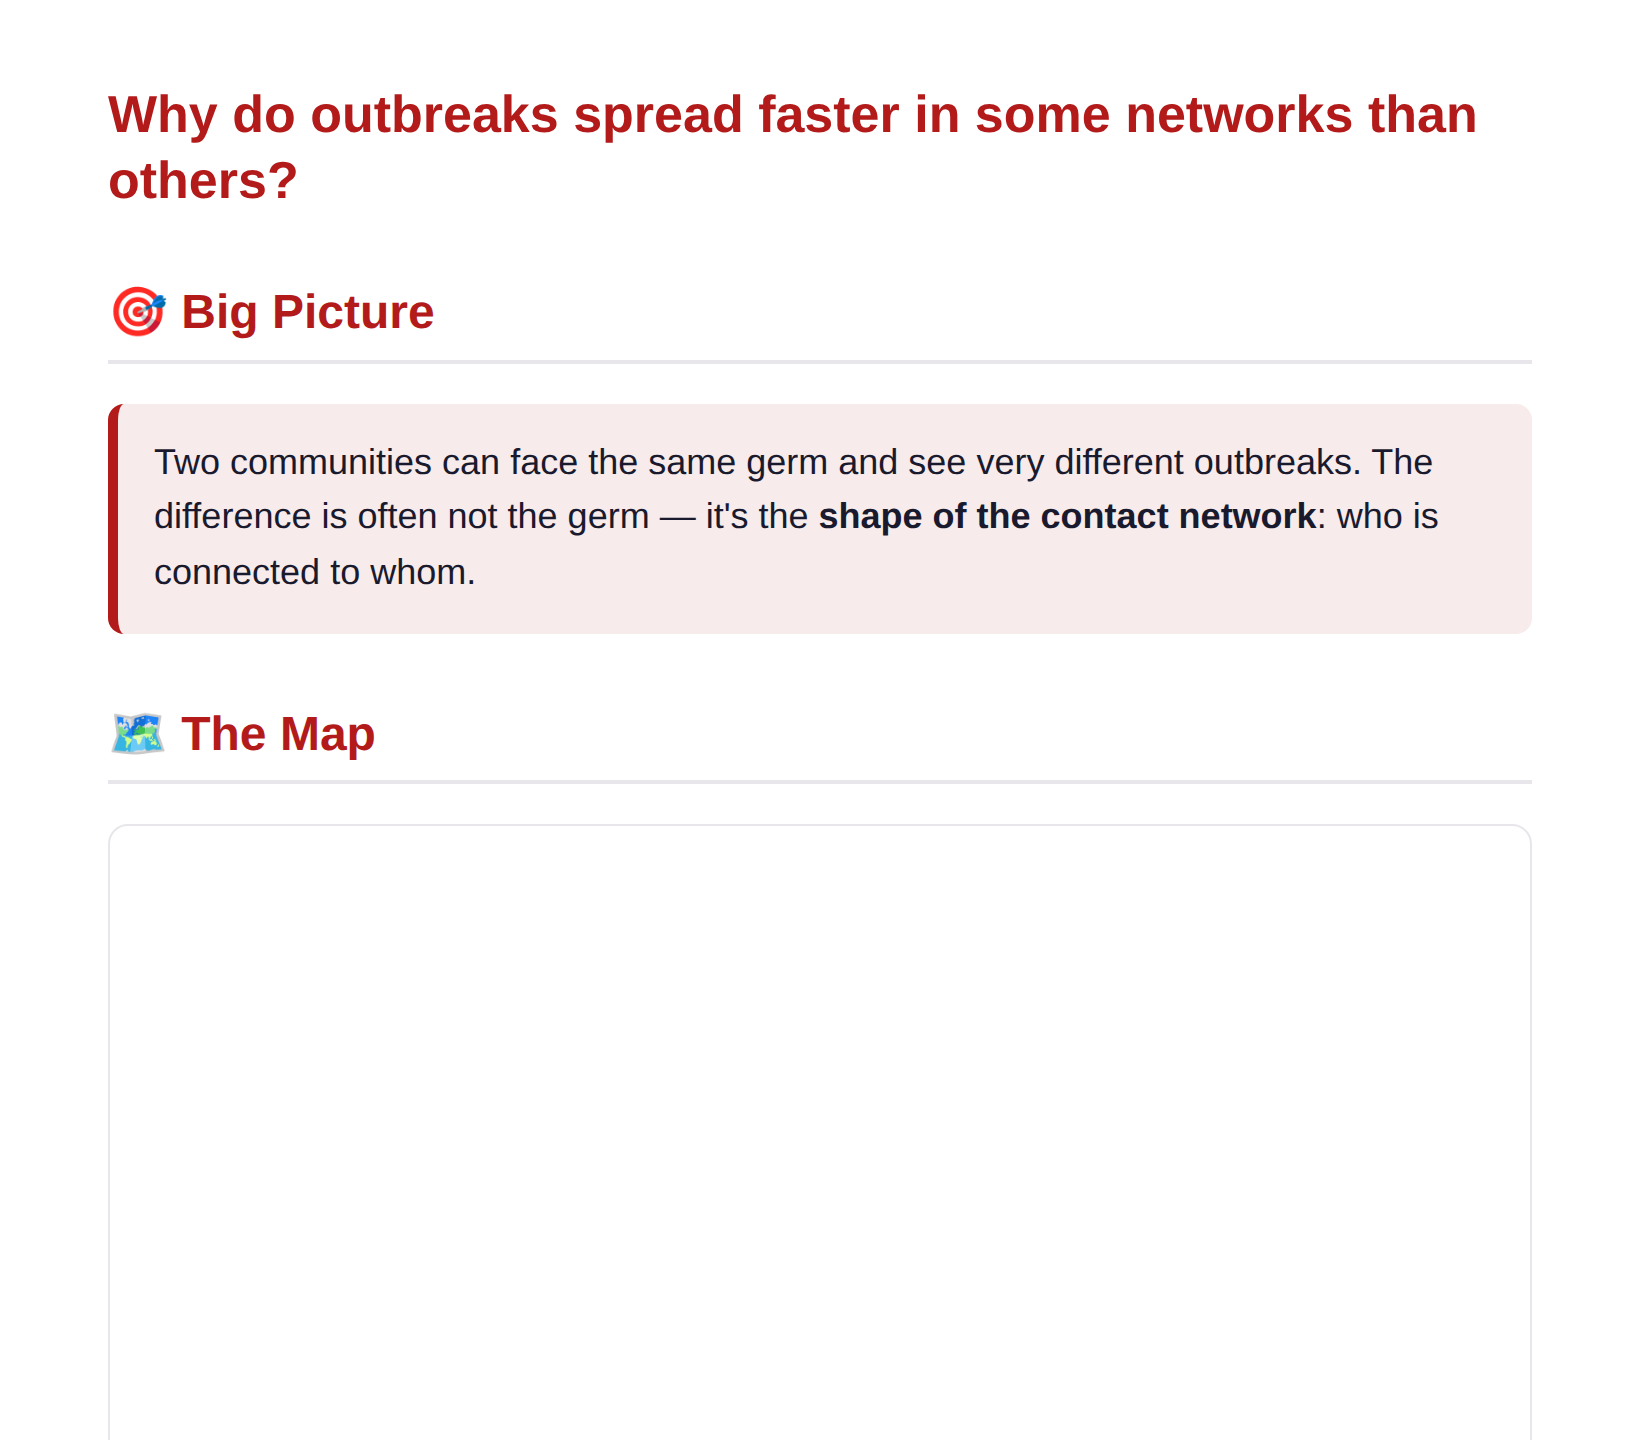
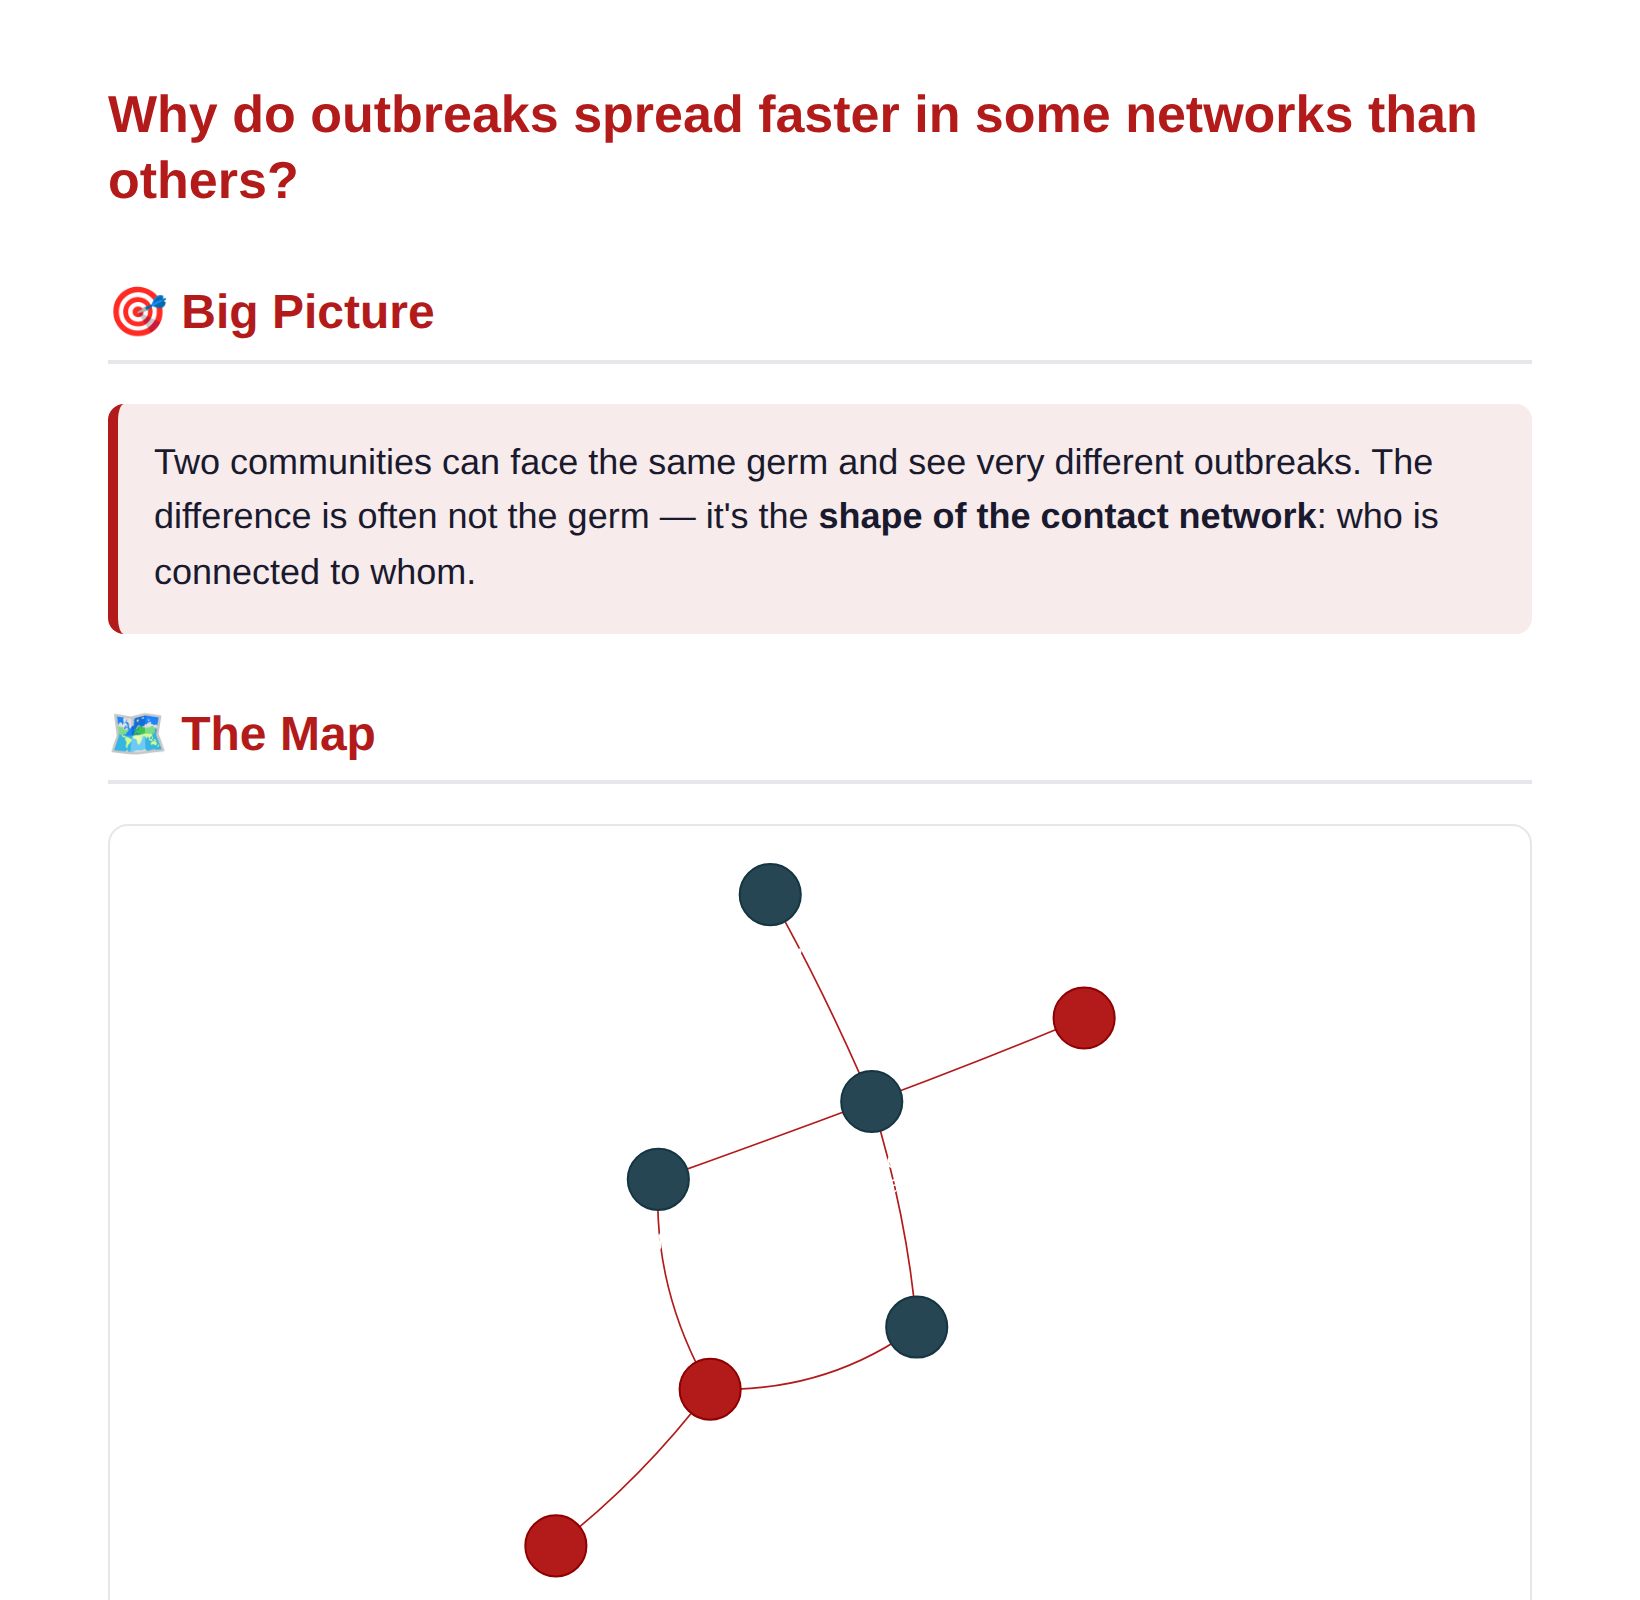
Fix "The Map" not rendering: vendor vis-network locally (#14)
The interactive-tutorial screenshot showed an empty graph because the
vis-network CDN (unpkg) is blocked by the egress policy, so the library
never loaded in headless chromium.

- Vendor vis-network.min.js into 01_claude/output/ (installed from the
  allowed npm registry) and point interactive_tutorial.html at the local
  copy — now self-contained and renders offline + in the screenshot
- screenshot script: log canvas count (sanity check the graph drew) and
  frame the interactive crop to fit the whole graph
- Regenerated 01_claude/output/shots/interactive_tutorial.png (graph now
  visible)

Claude-Session: https://claude.ai/code/session_012BtVGYUqxjA9VpPJPHkuNX

diff --git a/01_claude/output/interactive_tutorial.html b/01_claude/output/interactive_tutorial.html
@@ -2,7 +2,7 @@
 <meta charset="utf-8">
 <meta name="viewport" content="width=device-width, initial-scale=1">
 <title>Why do outbreaks spread faster in some networks?</title>
-<script src="https://unpkg.com/vis-network/standalone/umd/vis-network.min.js"></script>
+<script src="vis-network.min.js"></script>
 <style>
   :root{--bg:#fff;--ink:#1a1a2e;--muted:#5a6472;--line:#e8e6ea;--accent:#b31b1b;--accent-soft:#f7ebeb;--ok:#1c7c54;}
   *{box-sizing:border-box} body{font-family:-apple-system,"Segoe UI",Roboto,sans-serif;color:var(--ink);line-height:1.55;margin:0;background:var(--bg)}